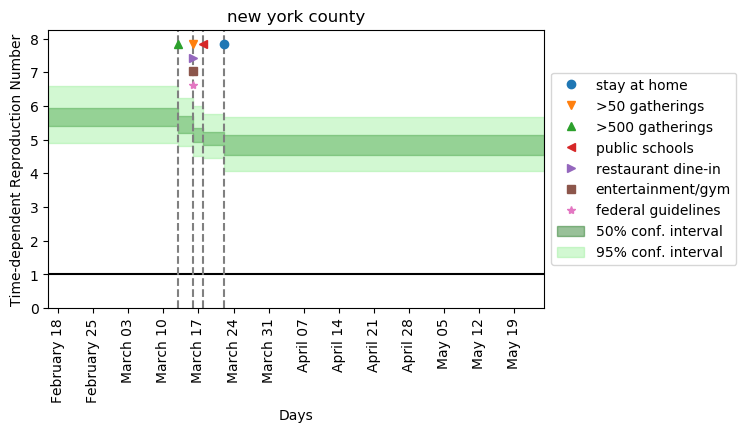
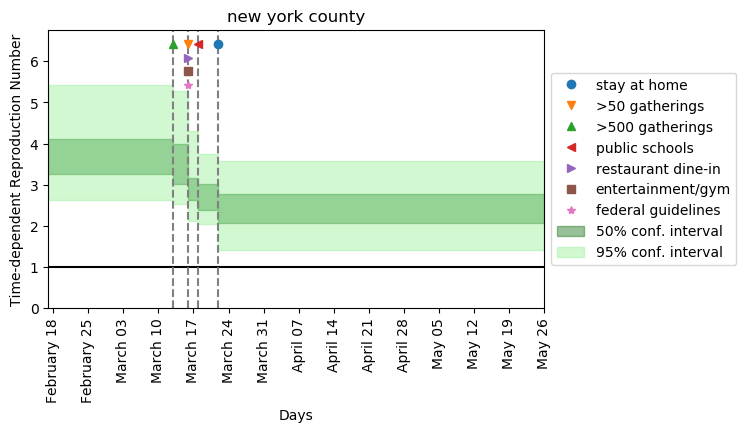
plotting Rt works now; removed plots from cumulative data; added new plots for 5 counties

diff --git a/scripts/plot_rt.py b/scripts/plot_rt.py
@@ -12,11 +12,11 @@ register_matplotlib_converters()
 ticker.Locator.MAXTICKS = 10000
 
 
-def plot_rt_europe(simulation_file, interventions_file, country_number, start_date, num_days=75, save_img=False):
+def plot_rt_europe(simulation_file, interventions_file, country_number, country_name, start_date, num_days=75, save_img=False):
     # read data
     simulation_data = pd.read_csv(simulation_file, delimiter=';', index_col=0)
-    countries, interventions, interventions_data = get_interventions_europe(interventions_file)
-    interventions_data = interventions_data[interventions_data['Country'] == countries[country_number - 1]]
+    interventions, interventions_data = get_interventions_europe(interventions_file)
+    interventions_data = interventions_data[interventions_data['Country'] == country_name]
     time_data = list(pd.date_range(start=start_date, periods=num_days))
     # remove those interventions, that are not considered in the report
     interventions.remove('sport')
@@ -77,21 +77,21 @@ def plot_rt_europe(simulation_file, interventions_file, country_number, start_da
     plt.subplots_adjust(bottom=0.30)
     plt.xlim([time_data[0], time_data[-1]])
 
-    plt.title(countries[country_number - 1])
+    plt.title(country_name)
     plt.xlabel('Days')
     plt.ylabel('Time-dependent Reproduction Number')
 
     if save_img:
-        plt.savefig(r'results\plots\europe_interventions\Rt_{}.png'.format(countries[country_number - 1]), bbox_extra_artists=(lgd,), bbox_inches='tight')
+        plt.savefig(r'results\plots\europe_interventions\Rt_{}.png'.format(country_name), bbox_extra_artists=(lgd,), bbox_inches='tight')
 
     plt.show()
 
 
-def plot_rt_US(simulation_file, interventions_file, county_number, start_date, num_days=100, save_img=False):
+def plot_rt_US(simulation_file, interventions_file, county_number, fips, start_date, num_days=100, save_img=False):
     # read data
-    simulation_data = pd.read_csv(simulation_file, delimiter=';', index_col=0)
-    fips_list, interventions, interventions_data = get_interventions_US(interventions_file)
-    interventions_data = interventions_data[interventions_data['FIPS'] == fips_list[county_number - 1]]
+    simulation_data = pd.read_csv(simulation_file, delimiter=',', index_col=0)
+    interventions, interventions_data = get_interventions_US(interventions_file)
+    interventions_data = interventions_data[interventions_data['FIPS'] == fips]
     time_data = list(pd.date_range(start=start_date, periods=num_days))
     # remove those interventions, that are not considered in the report
     interventions.remove('foreign travel ban')
@@ -155,7 +155,7 @@ def plot_rt_US(simulation_file, interventions_file, county_number, start_date, n
     plt.ylabel('Time-dependent Reproduction Number')
 
     if save_img:
-        plt.savefig(r'results\plots\usa_interventions\Rt_{}.png'.format(fips_list[county_number - 1]), bbox_extra_artists=(lgd,), bbox_inches='tight')
+        plt.savefig(r'results\plots\usa_interventions\Rt_{}.png'.format(fips), bbox_extra_artists=(lgd,), bbox_inches='tight')
         #plt.savefig(r'results\plots\usa_interventions\Rt_{}.png'.format(interventions_data['AREA_NAME'].values[0]),
         #            bbox_extra_artists=(lgd,), bbox_inches='tight')
 
@@ -196,7 +196,7 @@ def get_interventions_europe(interventions_file):
     countries = mod_interventions['Country'].to_list()
     date_cols = [col for col in mod_interventions.columns.tolist() if col != 'Country']
 
-    return countries, date_cols, mod_interventions
+    return date_cols, mod_interventions
 
 
 # copied from data_parser
@@ -211,13 +211,9 @@ def get_interventions_US(interventions_file, num_counties=100):
     for col in int_cols: ### convert date from given format
         interventions[col] = interventions[col].apply(lambda x: dt.date.fromordinal(int(x)))
 
-    # this needs to be updated if any changes are made to the data parser
-    fips = [36061, 36119, 36059, 36103, 17031, 26163, 6037, 34003, 36087, 53033, 22071, 34013, 12086, 9001, 26125,
-            34017, 36071, 42101, 34039, 25025]
-
     interventions_list = list(interventions.columns.values)[3:]
 
-    return fips, interventions_list, interventions
+    return interventions_list, interventions
 
 
 def get_geo_startdate_data(geo_file, startdate_file):
@@ -226,7 +222,7 @@ def get_geo_startdate_data(geo_file, startdate_file):
     start_dates = pd.read_csv(startdate_file)
 
     fips_list = list(geos.values[0, 1:])
-    start_dates = list(start_dates.values[0, :])
+    start_dates = list(start_dates.values[0, 1:])
 
     return fips_list, start_dates
 
@@ -234,30 +230,32 @@ def get_geo_startdate_data(geo_file, startdate_file):
 if __name__ == '__main__':
 
     ### EUROPE ###
-    # simulation_file = r'results\europe_summary.csv'
-    # interventions_file = r'data\europe_data\interventions.csv'
-    # country_numbers = np.arange(1, 12)
-    # start_dates = ['02-22-2020', '02-18-2020', '02-21-2020', '02-07-2020', '02-15-2020', '01-27-2020', '02-24-2020', '02-09-2020', '02-18-2020', '02-14-2020', '02-12-2020']
-    #
-    # for country, date in zip(country_numbers, start_dates):
-    #     plot_rt_europe(simulation_file, interventions_file, country, date, save_img=True)
+    simulation_file = r'results\europe_summary.csv'
+    interventions_file = r'data\europe_data\interventions.csv'
+    geo_file = r'results\europe_geocode.csv'
+    startdate_file = r'results\europe_start_dates.csv'
+
+    country_list, start_dates = get_geo_startdate_data(geo_file, startdate_file)
+
+    # model output indices start at 1
+    country_numbers = np.arange(1, len(country_list) + 1)
+
+    for country_ind, country_name, date in zip(country_numbers, country_list, start_dates):
+        plot_rt_europe(simulation_file, interventions_file, country_ind, country_name, date, save_img=True)
 
     ### USA ###
     simulation_file = r'results\US_summary.csv'
     interventions_file = r'data\us_data\interventions.csv'
     geo_file = r'results\us_geocode.csv'
     startdate_file = r'results\us_start_dates.csv'
-    county_numbers = np.arange(1, 21)
 
     fips_list, start_dates = get_geo_startdate_data(geo_file, startdate_file)
 
-    # start_dates = ['2-16-2020', '2-27-2020', '2-20-2020', '2-18-2020', '2-21-2020', '2-22-2020',
-    #                '2-18-2020', '2-17-2020', '2-22-2020', '2-02-2020', '2-16-2020', '2-21-2020',
-    #                '3-01-2020', '2-20-2020', '2-23-2020', '2-26-2020', '2-28-2020', '2-28-2020',
-    #                '2-29-2020', '2-26-2020']
+    # model output indices start at 1
+    county_numbers = np.arange(1, len(fips_list) + 1)
 
-    for county, date in zip(county_numbers, start_dates):
-        plot_rt_US(simulation_file, interventions_file, county, date, save_img=True)
+    for county, fips, date in zip(county_numbers, fips_list, start_dates):
+        plot_rt_US(simulation_file, interventions_file, county, fips, date, save_img=True)
 
 
 
